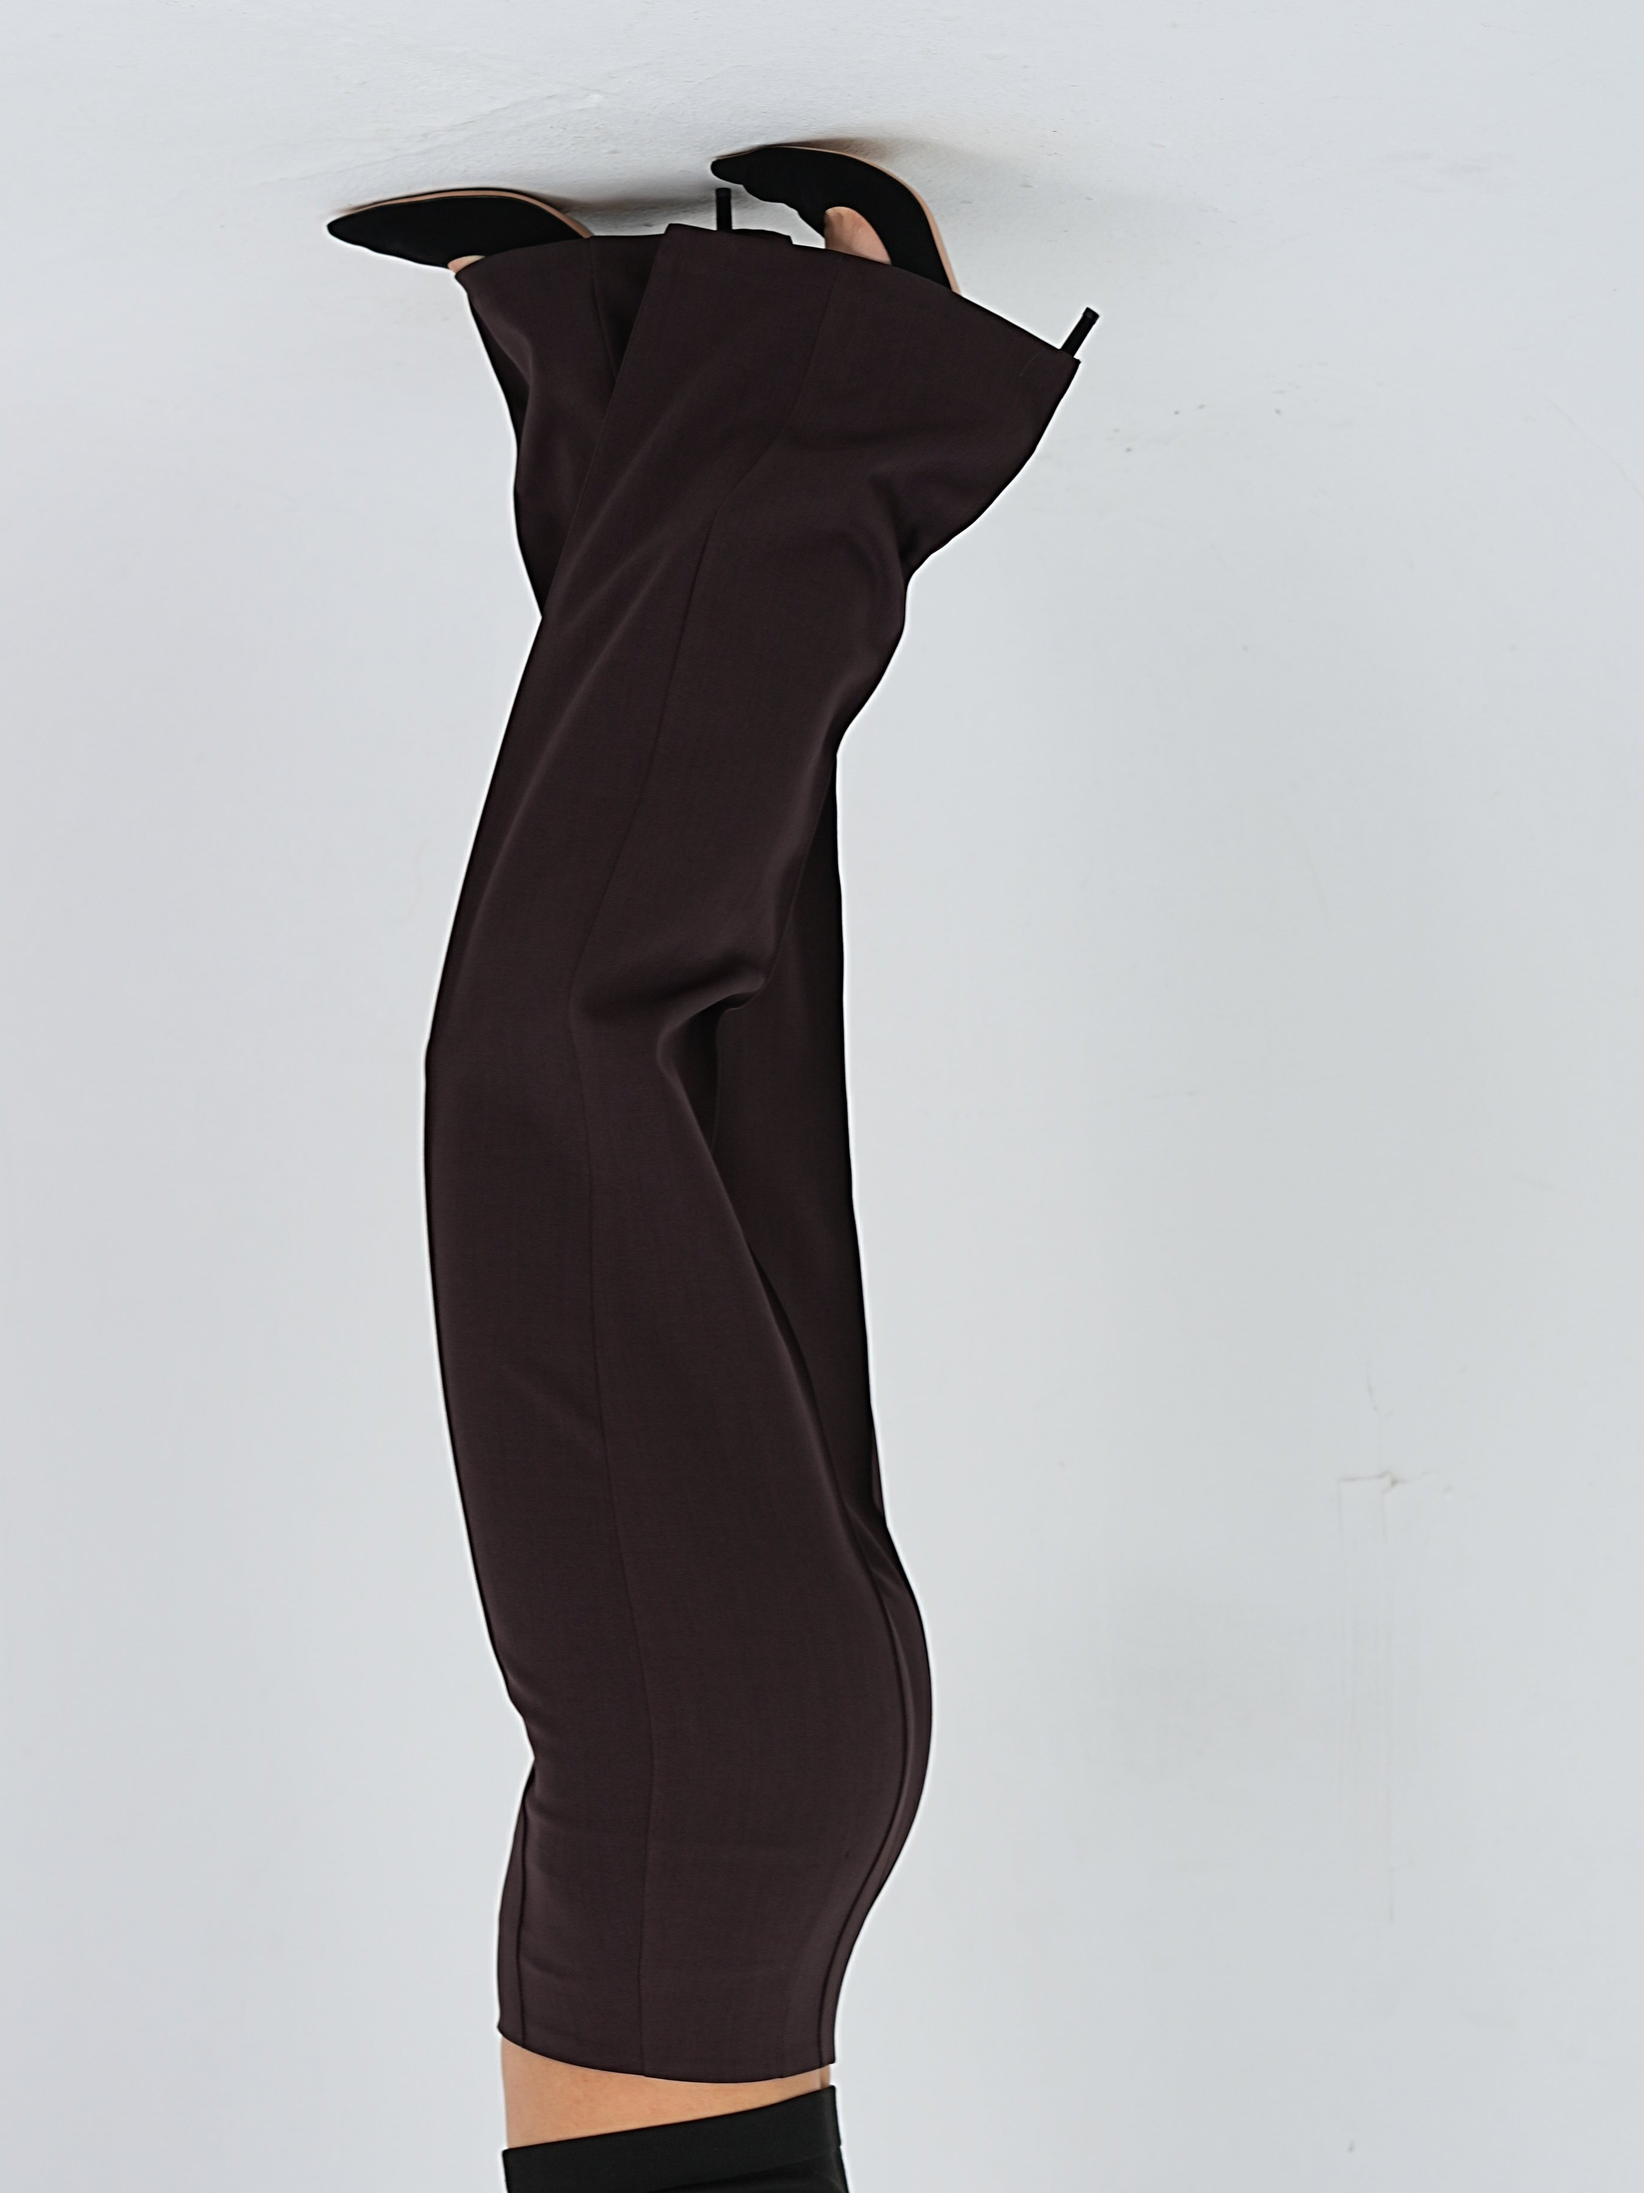
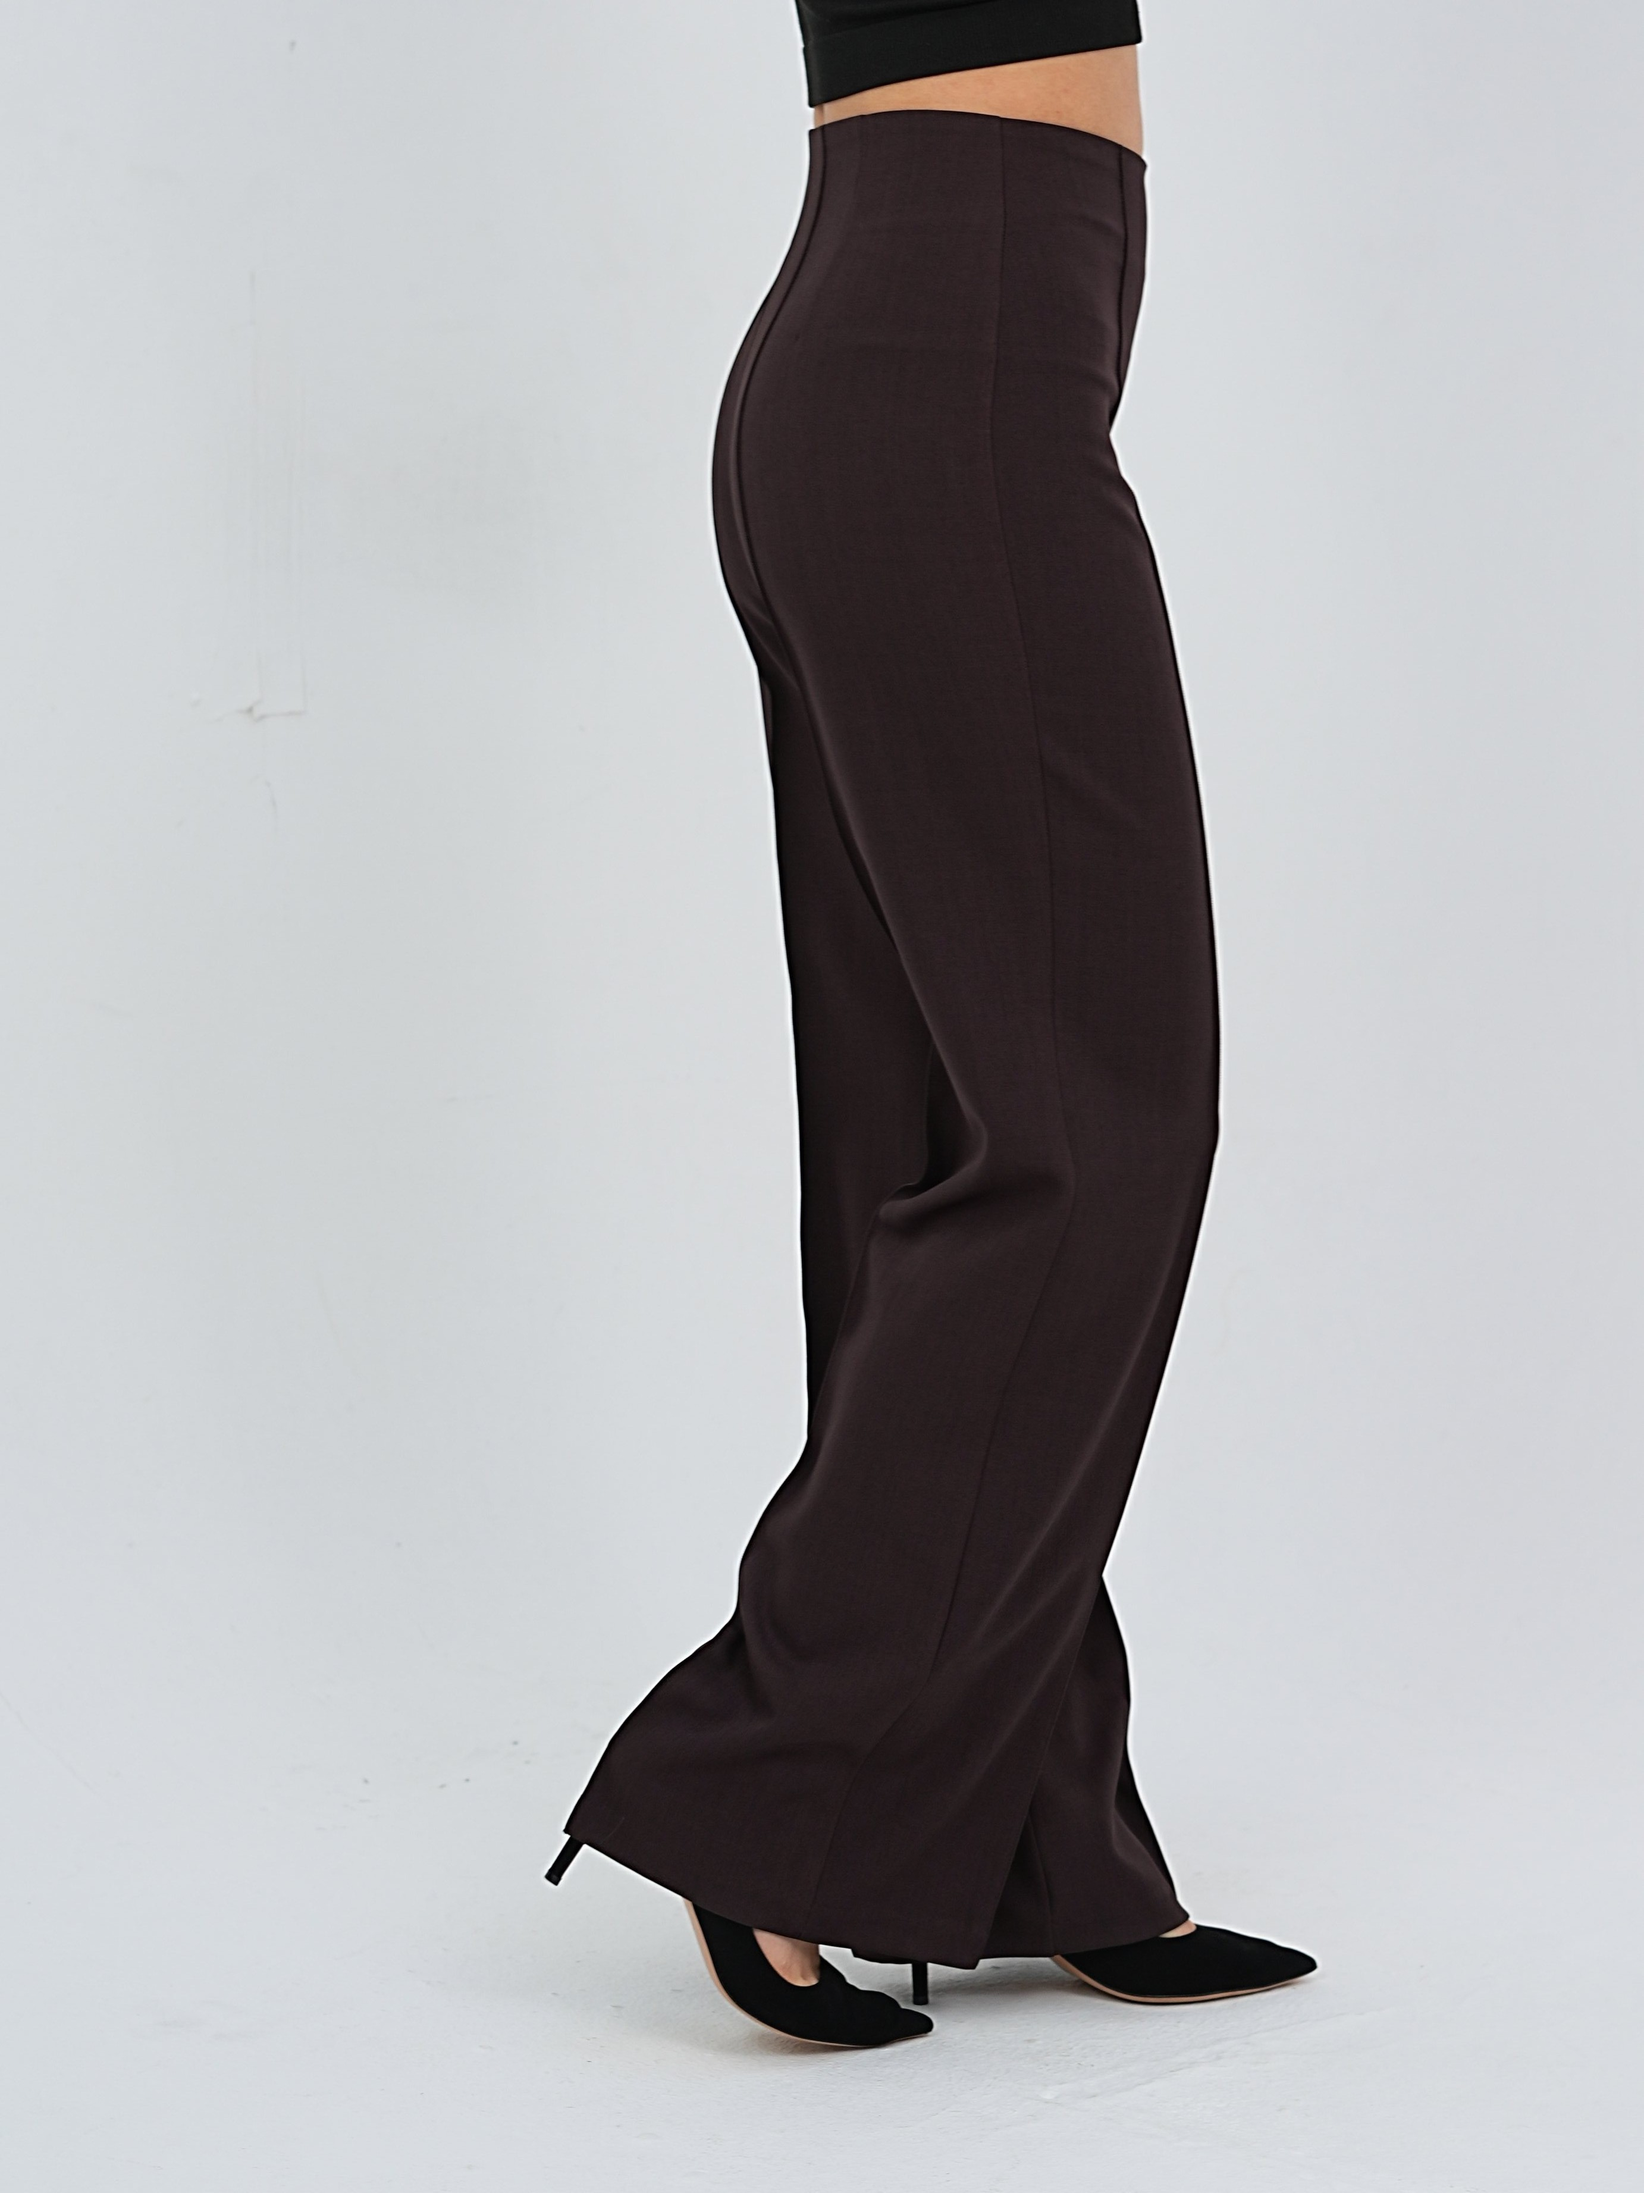
Add video posters and fix iOS play button

diff --git a/index.html b/index.html
@@ -1928,7 +1928,7 @@
         <div class="gallery lightbox-group">
           <figure class="media-card">
             <button class="zoomable" type="button" aria-label="Увеличить заглавное фото мужских джинсов">
-              <img src="./Порфтолио/заглавные/5002.png" alt="Заглавное фото мужских джинсов">
+              <img src="./Порфтолио/заглавные/5002.jpg" alt="Заглавное фото мужских джинсов">
             </button>
             <figcaption class="figure-result">Мужские джинсы: CTR 7%</figcaption>
           </figure>
